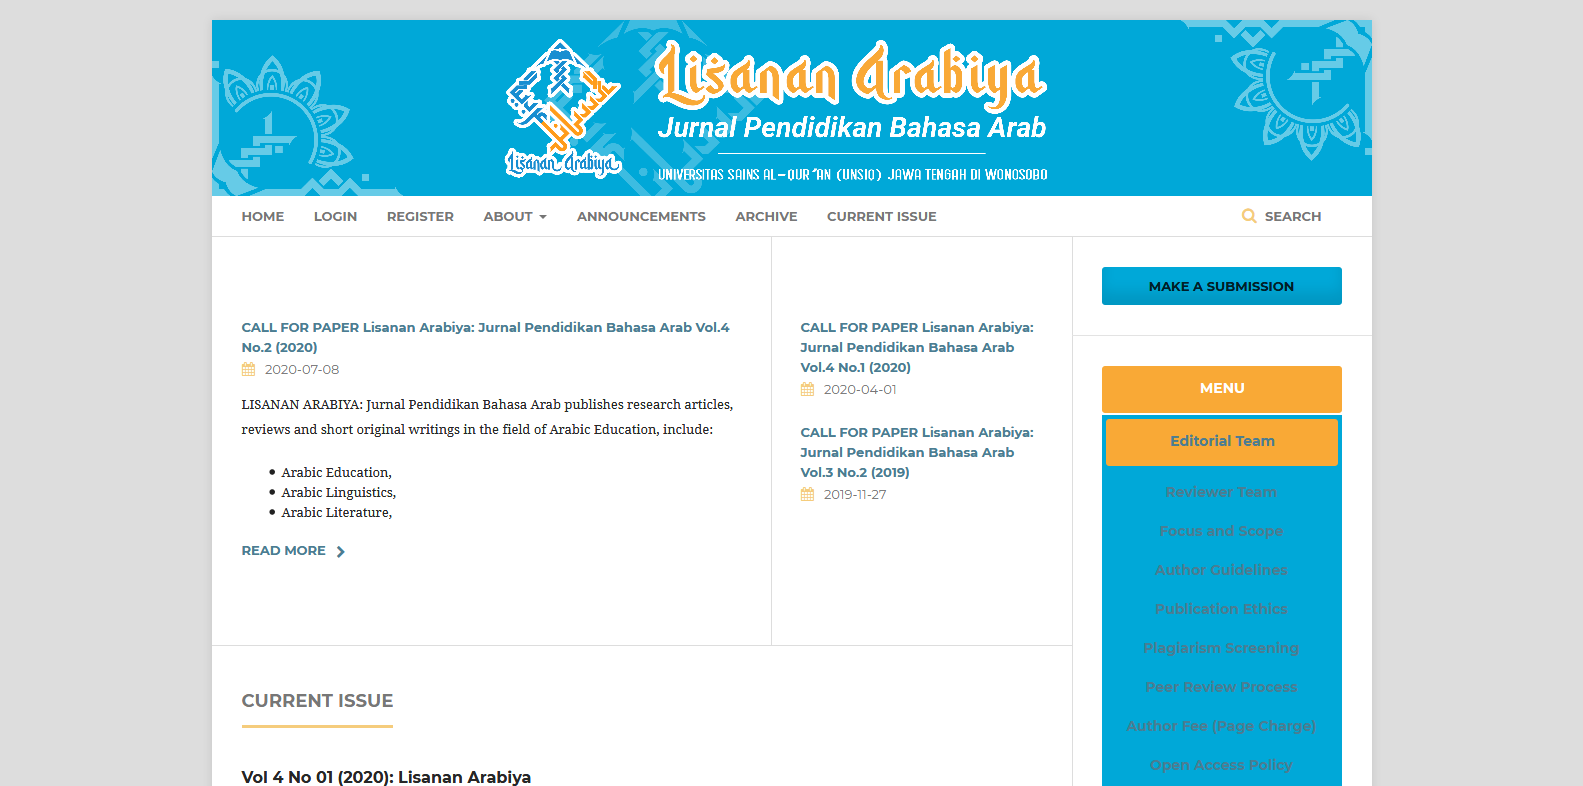
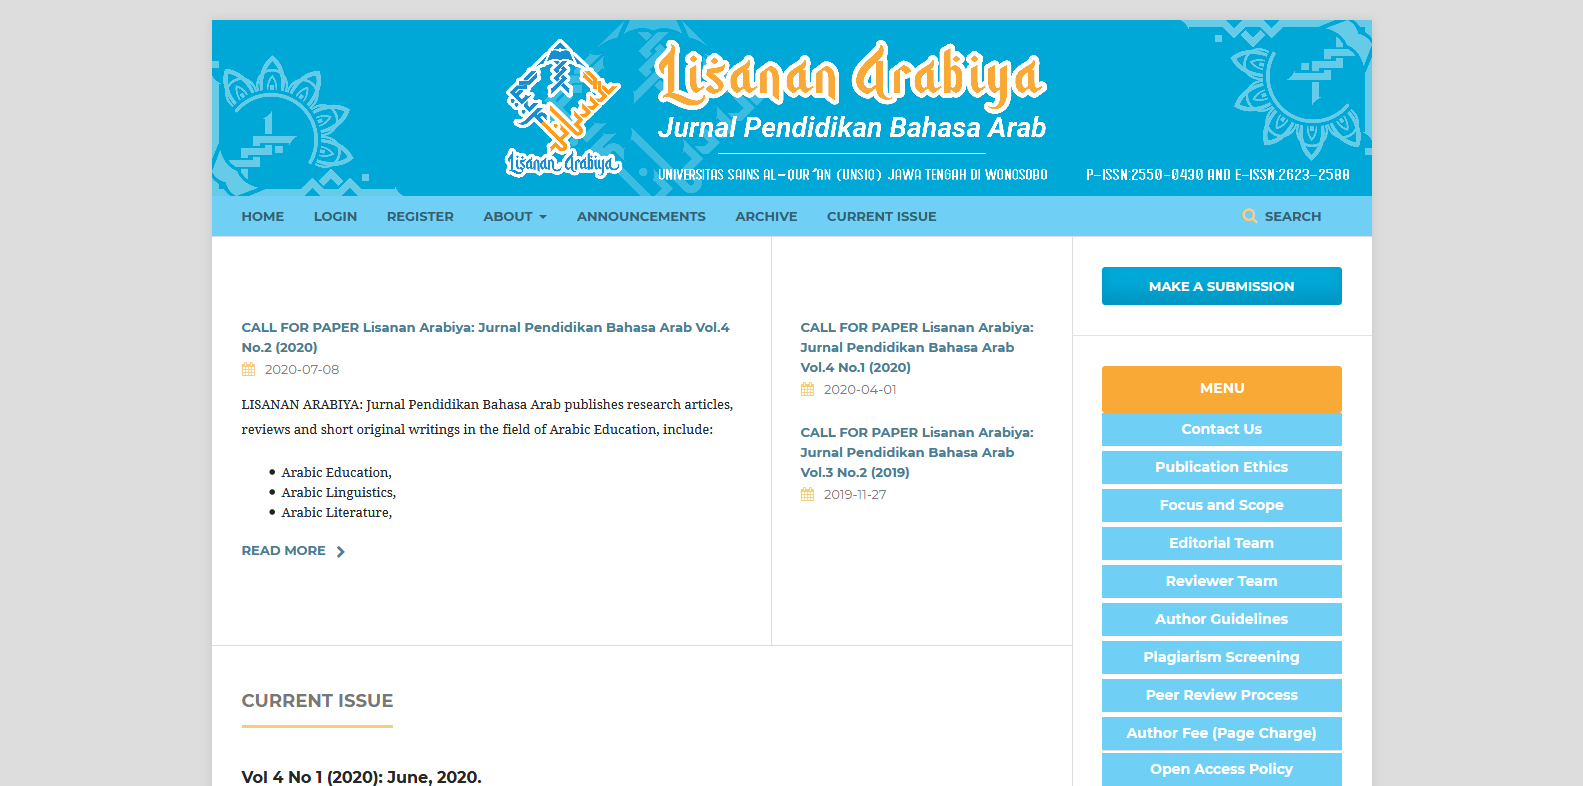
Revision liar.css

diff --git a/css/liar.css b/css/liar.css
@@ -1,6 +1,8 @@
 :root {
-    --biru   : #66CBE7;
-    --kuning : #F9A936;
+    --biru        : #00a8d8;
+    --biru-langit : #70cff5;
+    --kuning      : #F9A936;
+    --abu         : #636e72;
 }
 
 .pkp_brand_footer {display: none;}
@@ -9,11 +11,24 @@
 .pkp_site_name .is_img img {max-height: 200px !important;}
 .pkp_site_name_wrapper {padding-left: 0; padding-right: 0;}
 .pkp_navigation_user_wrapper {top: 0; right: 0; padding-right:30px;}
+.pkp_navigation_primary.pkp_nav_list {
+    border-right: white;
+    border-right: 1px;
+    color: white !important;
+}
+.pkp_navigation_primary_row {
+    background: #70cff5;
+    font-weight: bold;
+    color: white !important;
+}
+.pkp_navigation_primary_row :hover{
+    font-weight: bold;
+    color: #2d3436 !important;
+}
 .pkp_structure_page {margin-top:  20px !important; margin-bottom:20 !important; padding-bottom: 20 !important;}
 .pkp_block{border-bottom: 1px solid #e3e3e3;}
 #customblock-menukanan .content p:nth-child(10){border-bottom: 1px solid #e3e3e3;}
 
-/* Custom Theme by Darkun7 */
 /* SUBMISSION BUTTON */
 a.block_make_submission_link{
 	padding: 5px 46px !important;
@@ -31,29 +46,34 @@ a.block_make_submission_link{
 .pkp_block .content a{
   text-decoration: none !important;
   text-align: center !important;
-  color: white !important;
+  color: white;
   display: block !important;
+}
+.pkp_block .content a{
+  padding: 4px;
 }
 
 .pkp_block .content li,
 .pkp_block .content p{
 	font-family: "Montserrat", -apple-system, BlinkMacSystemFont, "Segoe UI", "Roboto", "Oxygen-Sans", "Ubuntu", "Cantarell", "Helvetica Neue", sans-serif;
   margin-top: 0px;
-  padding: 4px;
-  border-bottom: 2px solid transparent;
-  border-left: 2px solid transparent;
+  /* padding: 4px; */
+  border-bottom: 3px solid;
+  border-bottom-color: white;
+  transition: 0.4s ease-in-out;
   margin-bottom: 2px;
-  background: var(--biru);
-  color: white;
+  background: var(--biru-langit);
   font-weight: bold;
 }
 
+.pkp_block .content p:hover,
 .pkp_block .content li:hover,
-.pkp_block .content p:hover{
-  background: var(--kuning);
+.pkp_block .content a:hover{
+  background-color: white;
+  border-bottom-color: var(--biru);
 	font-family: "Montserrat", -apple-system, BlinkMacSystemFont, "Segoe UI", "Roboto", "Oxygen-Sans", "Ubuntu", "Cantarell", "Helvetica Neue", sans-serif;
   font-weight: 700;
-/* border-left: 2px solid var(--sekunder); */
+  color: var(--biru) !important;
 }
 
 span.title,
@@ -69,7 +89,6 @@ span.title,
   text-align: center !important;
   margin-bottom: 0px !important;
   border-radius: 3px;
-  box-shadow: inset 0 -1em 1em rgba(0,0,0,0.1);
 }
 
 .image-index{
@@ -84,7 +103,8 @@ span.title,
   box-shadow: 3px 3px 3px rgba(68, 68, 68, 0.6);
 }
 
-.image-tools{
-  max-width: 120px;
-  margin: 0 auto;
+.image-collaboration{
+    background-color: white;
+    max-width: 120px;
+    margin: 0 auto;
 }
